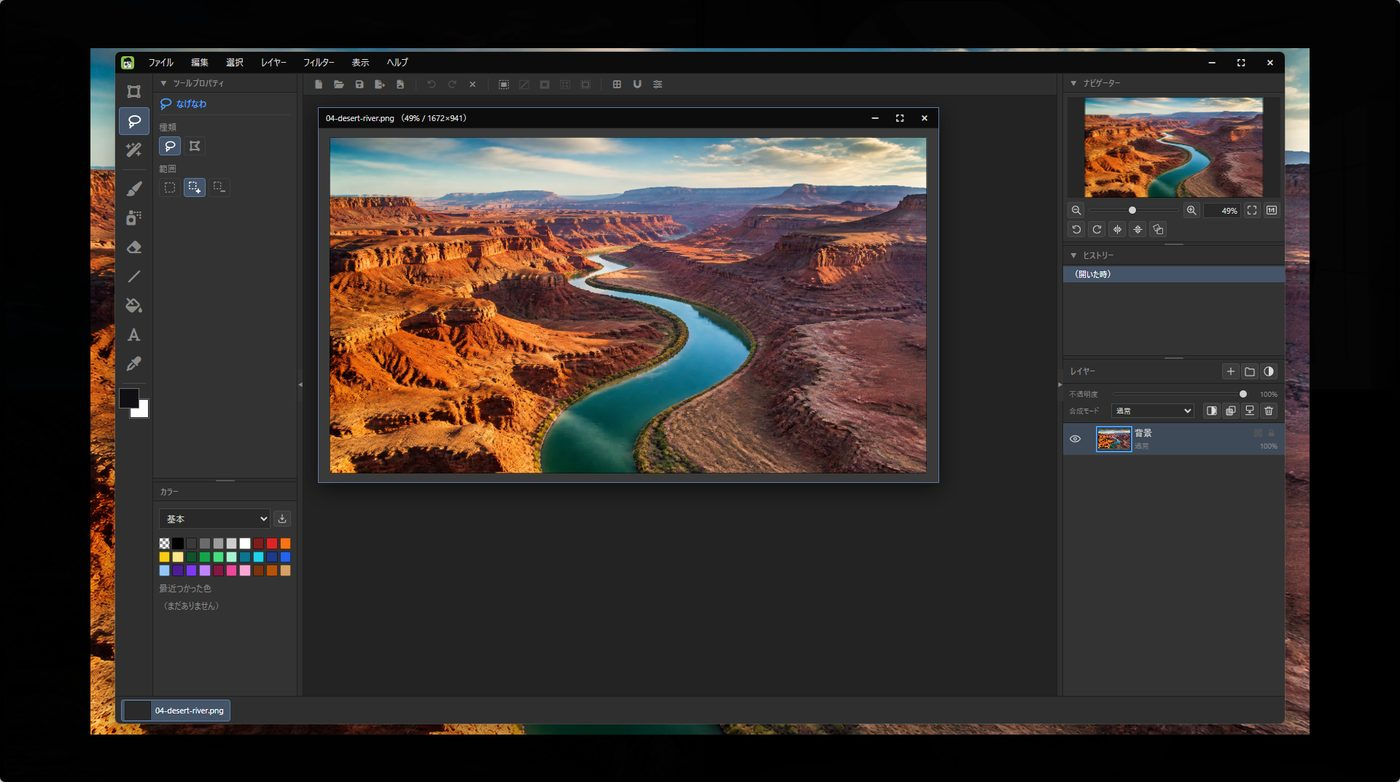
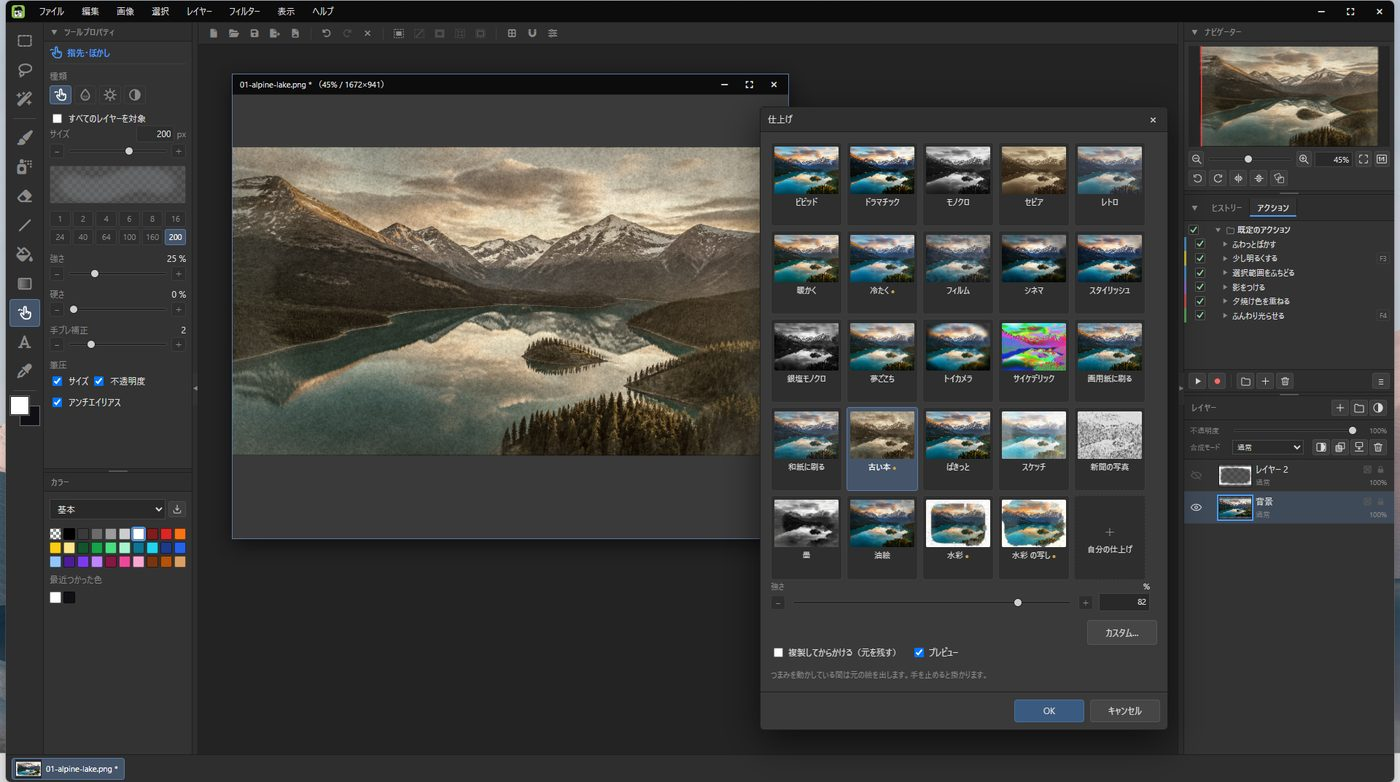
05 の絵を、仕上げのフィルターを掛けている画面に差し替える
ただ開いただけの画面だったので、何ができるのか読み取れなかった。
写真がセピアに変わっている絵なら、掛けたことが一目で分かる。

PVでは 12-paint を使っていないので、動画は撮り直していない。
撮影の枠（1920x1072）を1コマ撮って、他の静止画と同じ処理
（1400x782・JPEG品質82）を通した。

diff --git a/docs/index.html b/docs/index.html
@@ -635,7 +635,7 @@ footer a:hover { color: var(--text); }
           <li>直したら<b>そのまま上書き</b>。保存先を選び直さずに済みます</li>
         </ul>
       </div>
-      <div class="shot"><img src="img/paint.jpg" alt="YAE Paint でレイヤーを使って写真に手を入れている画面" loading="lazy"></div>
+      <div class="shot"><img src="img/paint.jpg" alt="YAE Paint で、写真に仕上げのフィルターを掛けている画面" loading="lazy"></div>
     </div>
   </section>
 
